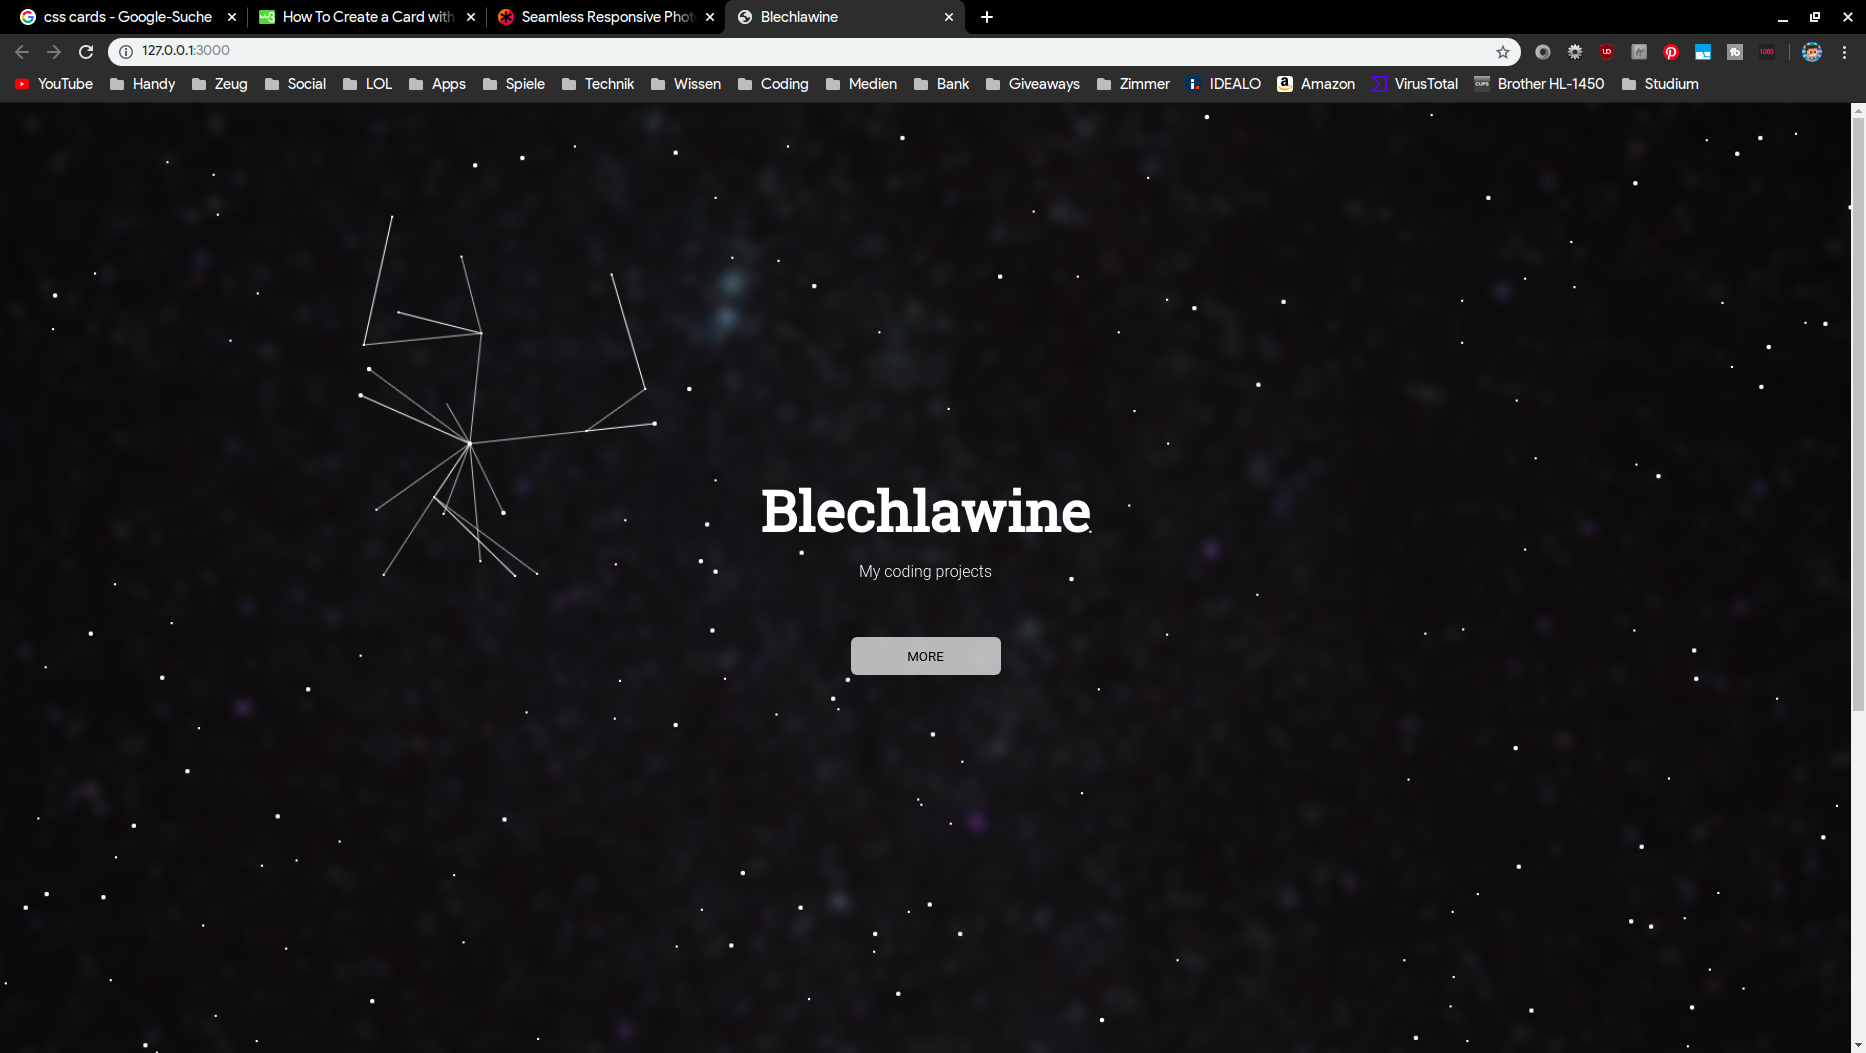
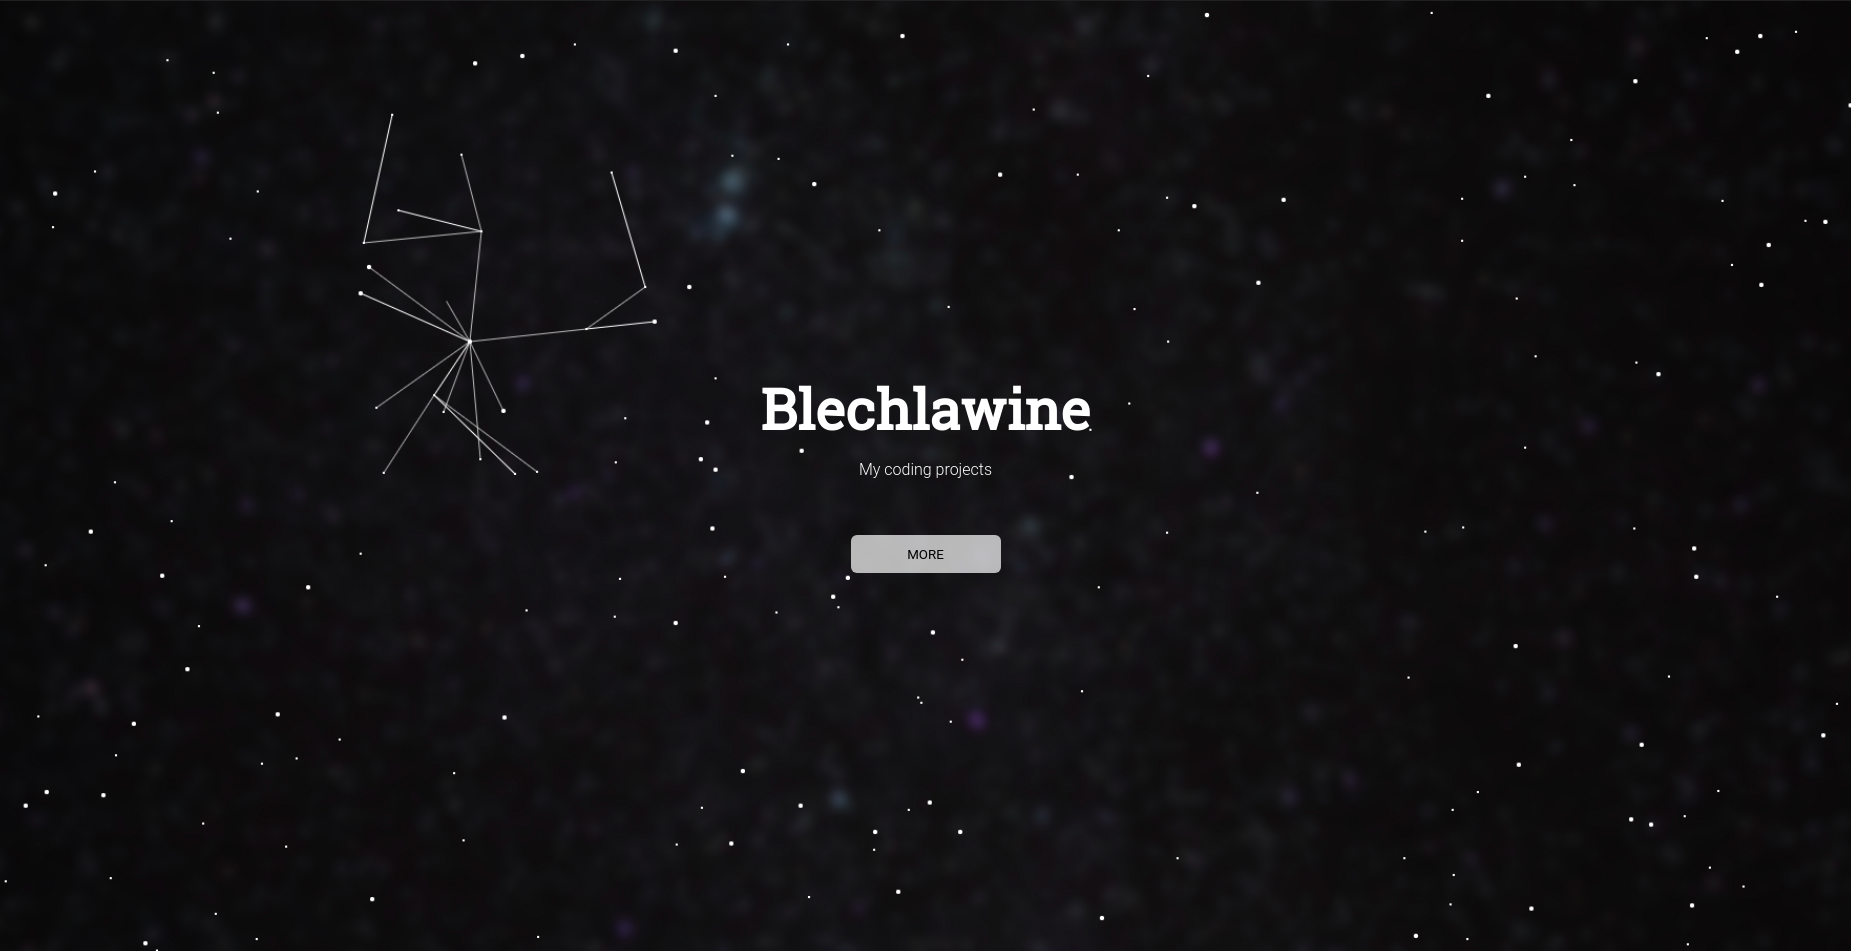
started colortool

diff --git a/index.html b/index.html
@@ -1,5 +1,5 @@
 <!DOCTYPE html>
-<html lang="de">
+<html lang="en">
 <head>
     <link rel="stylesheet" href="/css/parallax.css">
     <link rel="stylesheet" href="/css/master.css">
@@ -23,16 +23,12 @@
                     <h1 id="logotext">Blechlawine</h1>
                     <p id="subtitle">My coding projects</p>
                     <div class="centered">
-                        <button id="more">More</button>
+                        <a href="#more" class="button" id="more">More</a>
                     </div>
                 </div>
                 <div class="content">
-                    <div class="cards">
-                        <div class="card">
-                            <div class="cardheader">
-                                <!-- <img src="/img/blechlawineGithubPagesScreenshot.png" alt="This Website"> -->
-                                <!-- TODO: Bild ausschneiden -->
-                            </div>
+                    <div class="cards" id="more">
+                        <div class="card" id="thiswebsite">
                             <div class="cardcontent">
                                 <h2>This Website</h2>
                                 <p>
@@ -40,78 +36,24 @@
                                 </p>
                             </div>
                         </div>
-                        <div class="card">
-                            <div class="cardheader">
-
-                            </div>
+                        <div class="card" id="colortool">
                             <div class="cardcontent">
-                                <h2>Photon</h2>
+                                <h2>Colortool</h2>
                                 <p>
-                                    Material-design music player for desktop platforms
-                                </p>
-                            </div>
-                        </div>
-                        <div class="card">
-                            <div class="cardheader">
-
-                            </div>
-                            <div class="cardcontent">
-                                <h2>Photon</h2>
-                                <p>
-                                    Material-design music player for desktop platforms
-                                </p>
-                            </div>
-                        </div>
-                        <div class="card">
-                            <div class="cardheader">
-
-                            </div>
-                            <div class="cardcontent">
-                                <h2>Photon</h2>
-                                <p>
-                                    Material-design music player for desktop platforms
-                                </p>
-                            </div>
-                        </div>
-                        <div class="card">
-                            <div class="cardheader">
-
-                            </div>
-                            <div class="cardcontent">
-                                <h2>Photon</h2>
-                                <p>
-                                    Material-design music player for desktop platforms
-                                </p>
-                            </div>
-                        </div>
-                        <div class="card">
-                            <div class="cardheader">
-
-                            </div>
-                            <div class="cardcontent">
-                                <h2>Photon</h2>
-                                <p>
-                                    Material-design music player for desktop platforms
-                                </p>
-                            </div>
-                        </div>
-                        <div class="card">
-                            <div class="cardheader">
-
-                            </div>
-                            <div class="cardcontent">
-                                <h2>Photon</h2>
-                                <p>
-                                    Material-design music player for desktop platforms
+                                    Color palette creator tool
                                 </p>
                             </div>
                         </div>
                     </div>
+                    <footer>
+
+                    </footer>
                 </div>
             </div>
         </div>
     </div>
-    <script src="/js/starfield.js"></script>
     <script src="https://ajax.googleapis.com/ajax/libs/jquery/3.4.1/jquery.min.js"></script>
+    <script src="/js/starfield.js"></script>
+    <script src="/js/linker.js"></script>
 </body>
 </html>

diff --git a/js/colortool.js b/js/colortool.js
@@ -1,0 +1,41 @@
+$("#shuffleColors").click(function() {
+    $(".color").each(function() {
+        $(this).css("background-color", getColor(4, 0));
+    });
+});
+
+function getColor(xd, hue) { // max: 4.8
+    //x = saturation, y = value
+    var divisions = 5;
+    var yd = (1 / (xd - divisions)) + divisions;
+    // xd += 1 / divisions;
+    // yd += 1 / divisions;
+    // umrechnung in werte zwischen 0 und 1
+    var x = xd / divisions + ((0.04 / 4.8) * xd);
+    var y = yd / divisions + ((0.04 / 4.8) * (4.8 - xd));
+    console.log(x + " " + y);
+    // von Wikipedia: https://en.wikipedia.org/wiki/HSL_and_HSV
+    var luminance = y * (1 - x / 2);
+    var saturation = 0;
+    if(luminance > 0 && luminance < 1) {
+        saturation = (y - luminance) / (Math.min(luminance, 1 - luminance));
+    }
+    // umrechnung in prozent
+    saturation *= 100;
+    luminance *= 100;
+    // console.log(saturation + " " + luminance);
+    return "hsl(" + hue + ", " + saturation + "%, " + luminance + "%)";
+}
+
+function copyToClipboard(str) {
+    const element = document.createElement("textarea");
+    element.value = str;
+    document.body.appendChild(element);
+    element.select();
+    document.execCommand("copy");
+    document.body.removeChild(element);
+}
+
+$(".color").click(function() {
+    copyToClipboard($(this).css("background-color"));
+});

diff --git a/colortool.html b/colortool.html
@@ -1,0 +1,31 @@
+<!DOCTYPE html>
+<html lang="en">
+<head>
+    <meta charset="UTF-8">
+    <link rel="stylesheet" href="/css/colortool.css">
+    <link rel="stylesheet" href="/css/master.css">
+    <link rel="stylesheet" href="/css/text.css">
+    <link rel="stylesheet" href="/css/buttons.css">
+    <link rel="stylesheet" href="/css/cards.css">
+    <meta name="viewport" content="width=device-width, initial-scale=1.0">
+    <meta http-equiv="X-UA-Compatible" content="ie=edge">
+    <title>Colortool | Blechlawine</title>
+</head>
+<body>
+
+    <button id="shuffleColors" class="colored">Shuffle colors</button>
+    <div class="colors">
+        <div class="color" id="color1">
+        </div>
+        <div class="color" id="color2">
+        </div>
+        <div class="color" id="color3">
+        </div>
+        <div class="color" id="color4">
+        </div>
+    </div>
+
+    <script src="https://ajax.googleapis.com/ajax/libs/jquery/3.4.1/jquery.min.js"></script>
+    <script src="/js/colortool.js"></script>
+</body>
+</html>

diff --git a/css/buttons.css b/css/buttons.css
@@ -1,4 +1,5 @@
-button {
+button, a.button {
+    display: inline-block;
     text-transform: uppercase;
     border: none;
     background-color: rgba(255, 255, 255, 0.7);
@@ -6,12 +7,24 @@ button {
     padding: 10px;
     min-width: 150px;
 
+    text-decoration: none;
+    color: black;
+
     transition: all 0.2s;
     cursor: pointer;
 }
 
-button:hover {
+button.colored {
+    background-color: rgba(3, 169, 244, 0.7);
+}
+
+button:hover, a.button:hover {
     background-color: rgba(255, 255, 255, 1);
+}
+
+button.colored:hover {
+    background-color: rgba(3, 169, 244, 1);
+    color: white;
 }
 
 #more {

diff --git a/css/cards.css b/css/cards.css
@@ -1,5 +1,6 @@
 .cards { /*keine columns hier verwenden, sieht komisch aus*/
     display: table;
+    border-spacing: 16px;
 }
 
 .card {
@@ -11,8 +12,11 @@
     border: rgba(0, 0, 0, 0.2) solid 1px;
     cursor: pointer;
     transition: all 0.2s;
-    margin-bottom: 8px;
-    margin-left: 8px;
+    padding: 0%;
+}
+
+.cardRow {
+    display: table-row;
 }
 
 .card:hover {
@@ -21,6 +25,13 @@
 
 .cardheader {
     height: 150px;
+    width: 350px;
+    overflow: hidden;
+    object-fit: cover;
+}
+
+.cardheader img {
+    height: 100%;
 }
 
 .cardcontent {

diff --git a/js/linker.js b/js/linker.js
@@ -1,0 +1,5 @@
+$("#colortool").click(function() {
+    console.log("test");
+    var currentLoc = location.href.replace("#more", "");
+    location.replace(currentLoc + "colortool.html");
+});

diff --git a/css/colortool.css b/css/colortool.css
@@ -1,0 +1,10 @@
+.colors {
+    display: flex;
+    flex-direction: row;
+}
+
+.color {
+    width: 25%;
+    height: 50vh;
+    cursor: pointer;
+}

diff --git a/css/master.css b/css/master.css
@@ -34,3 +34,8 @@ body {
     position: absolute;
     z-index: -5;
 }
+
+footer {
+    height: 200px;
+    padding: 24px;
+}
